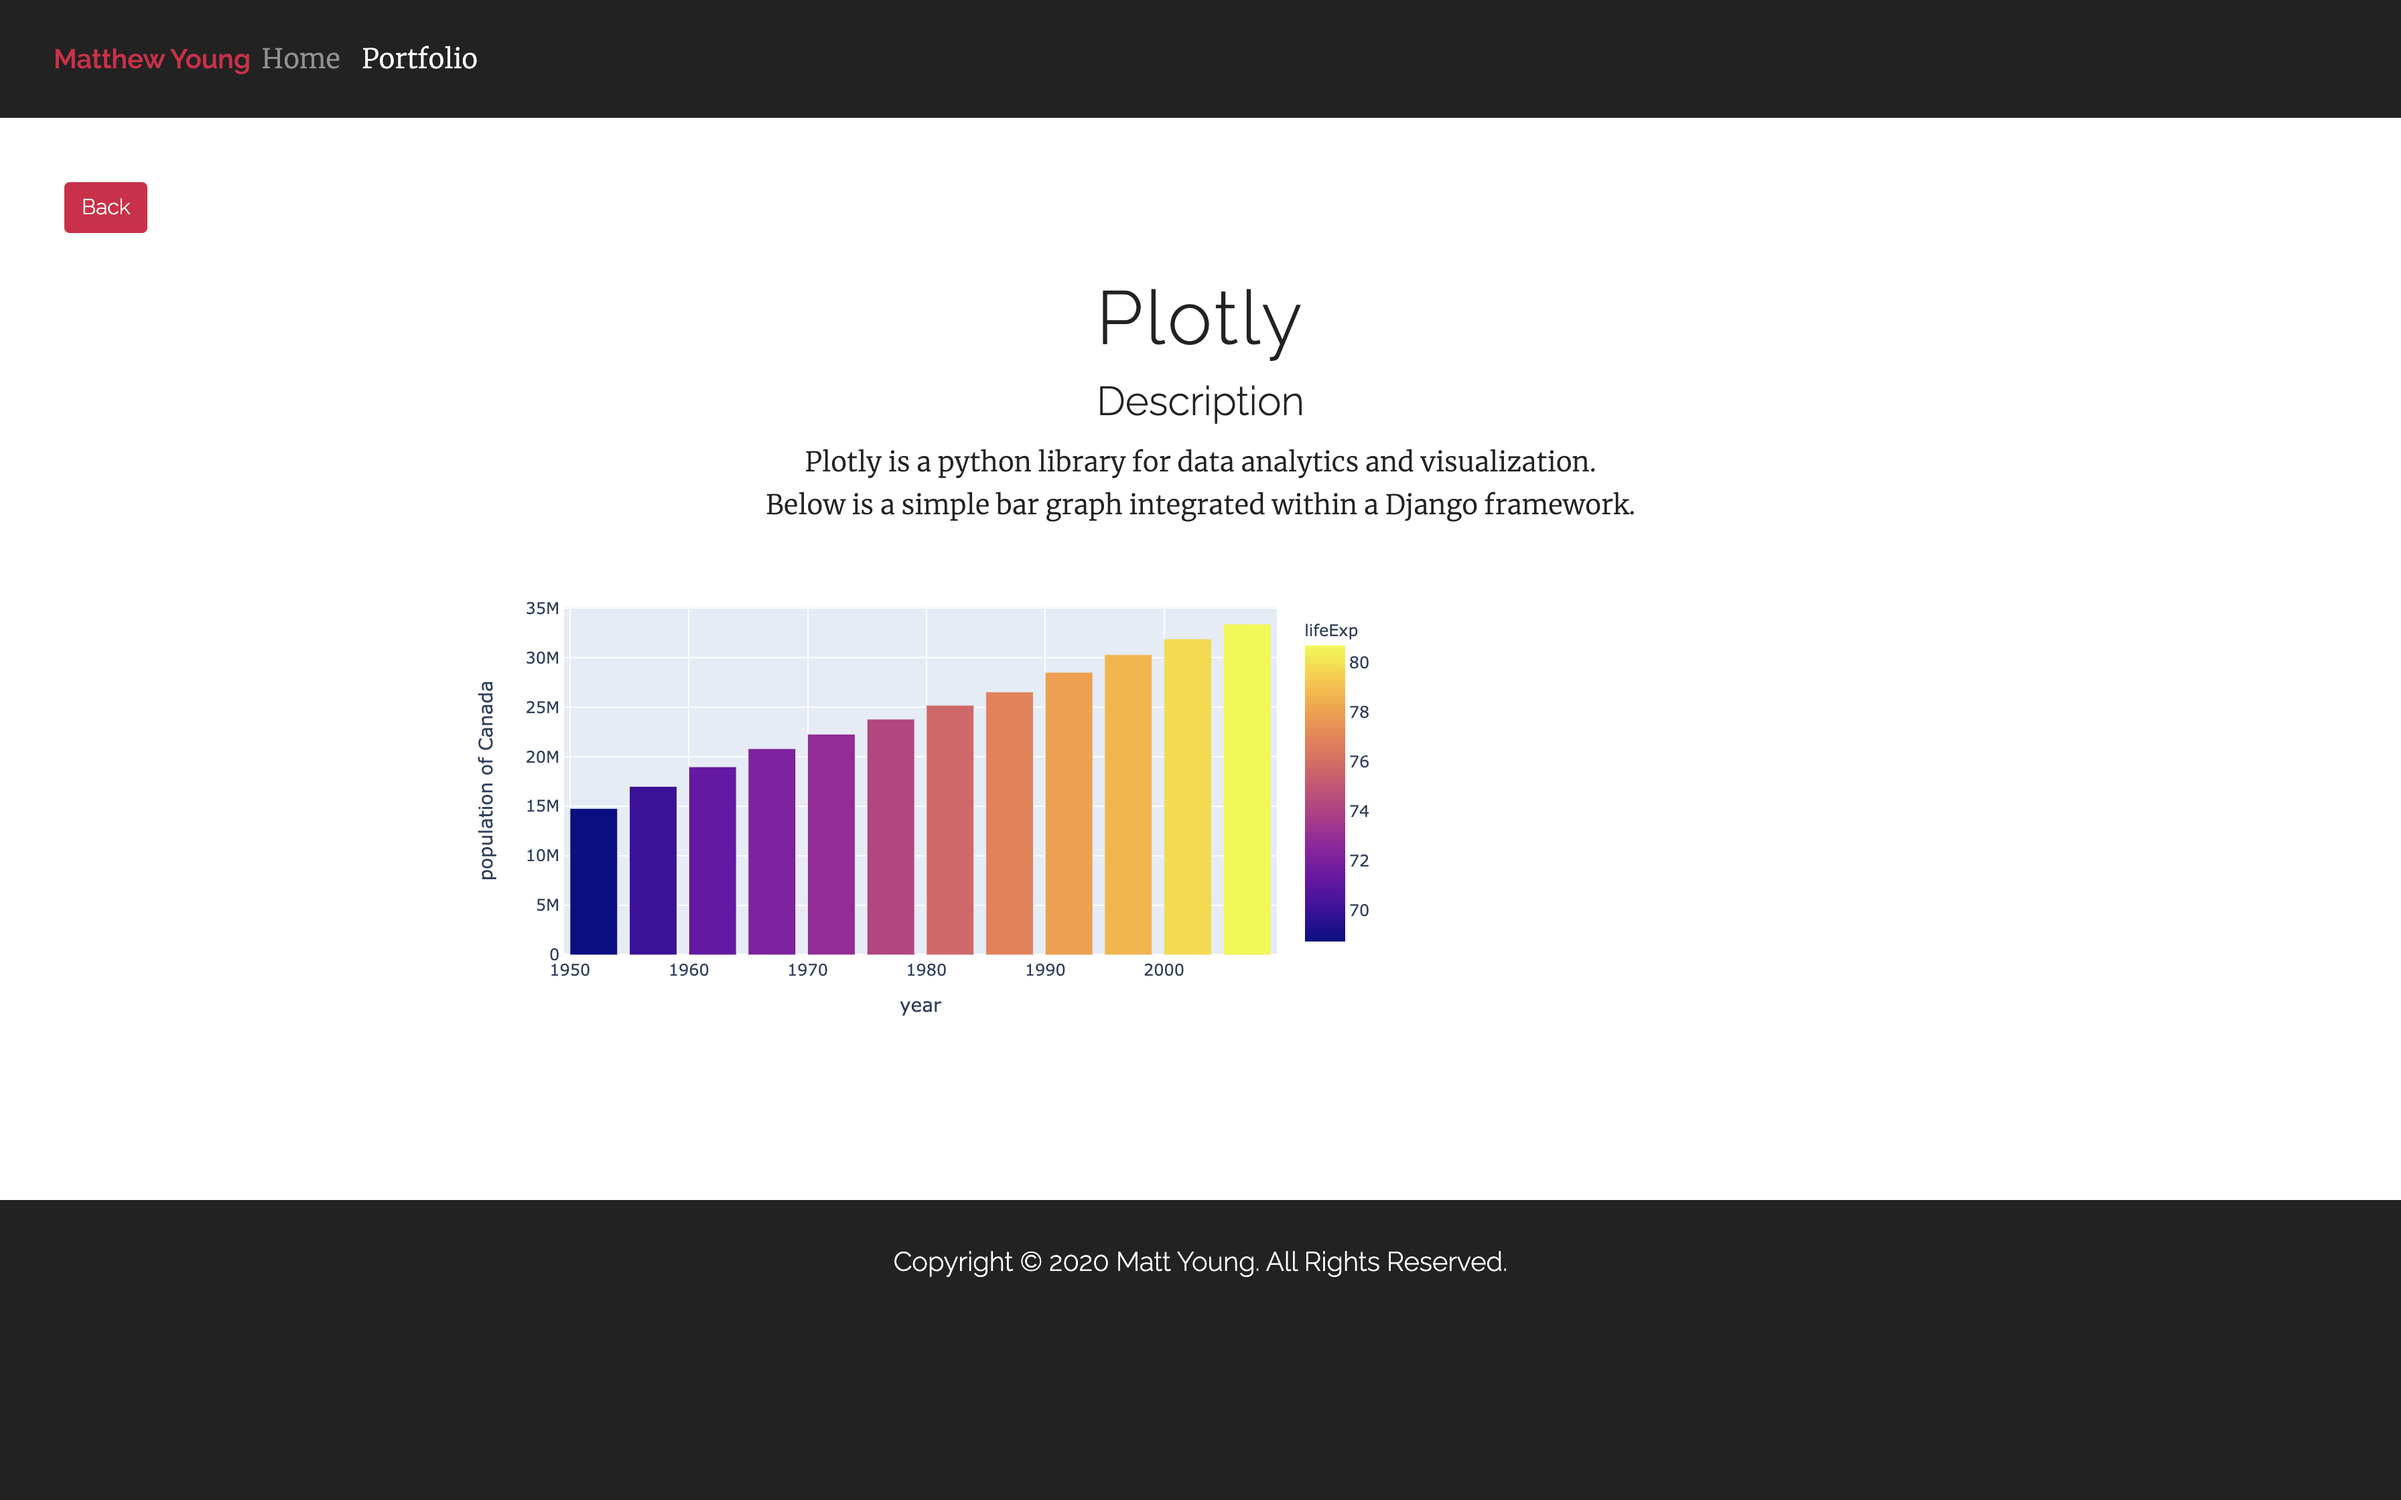
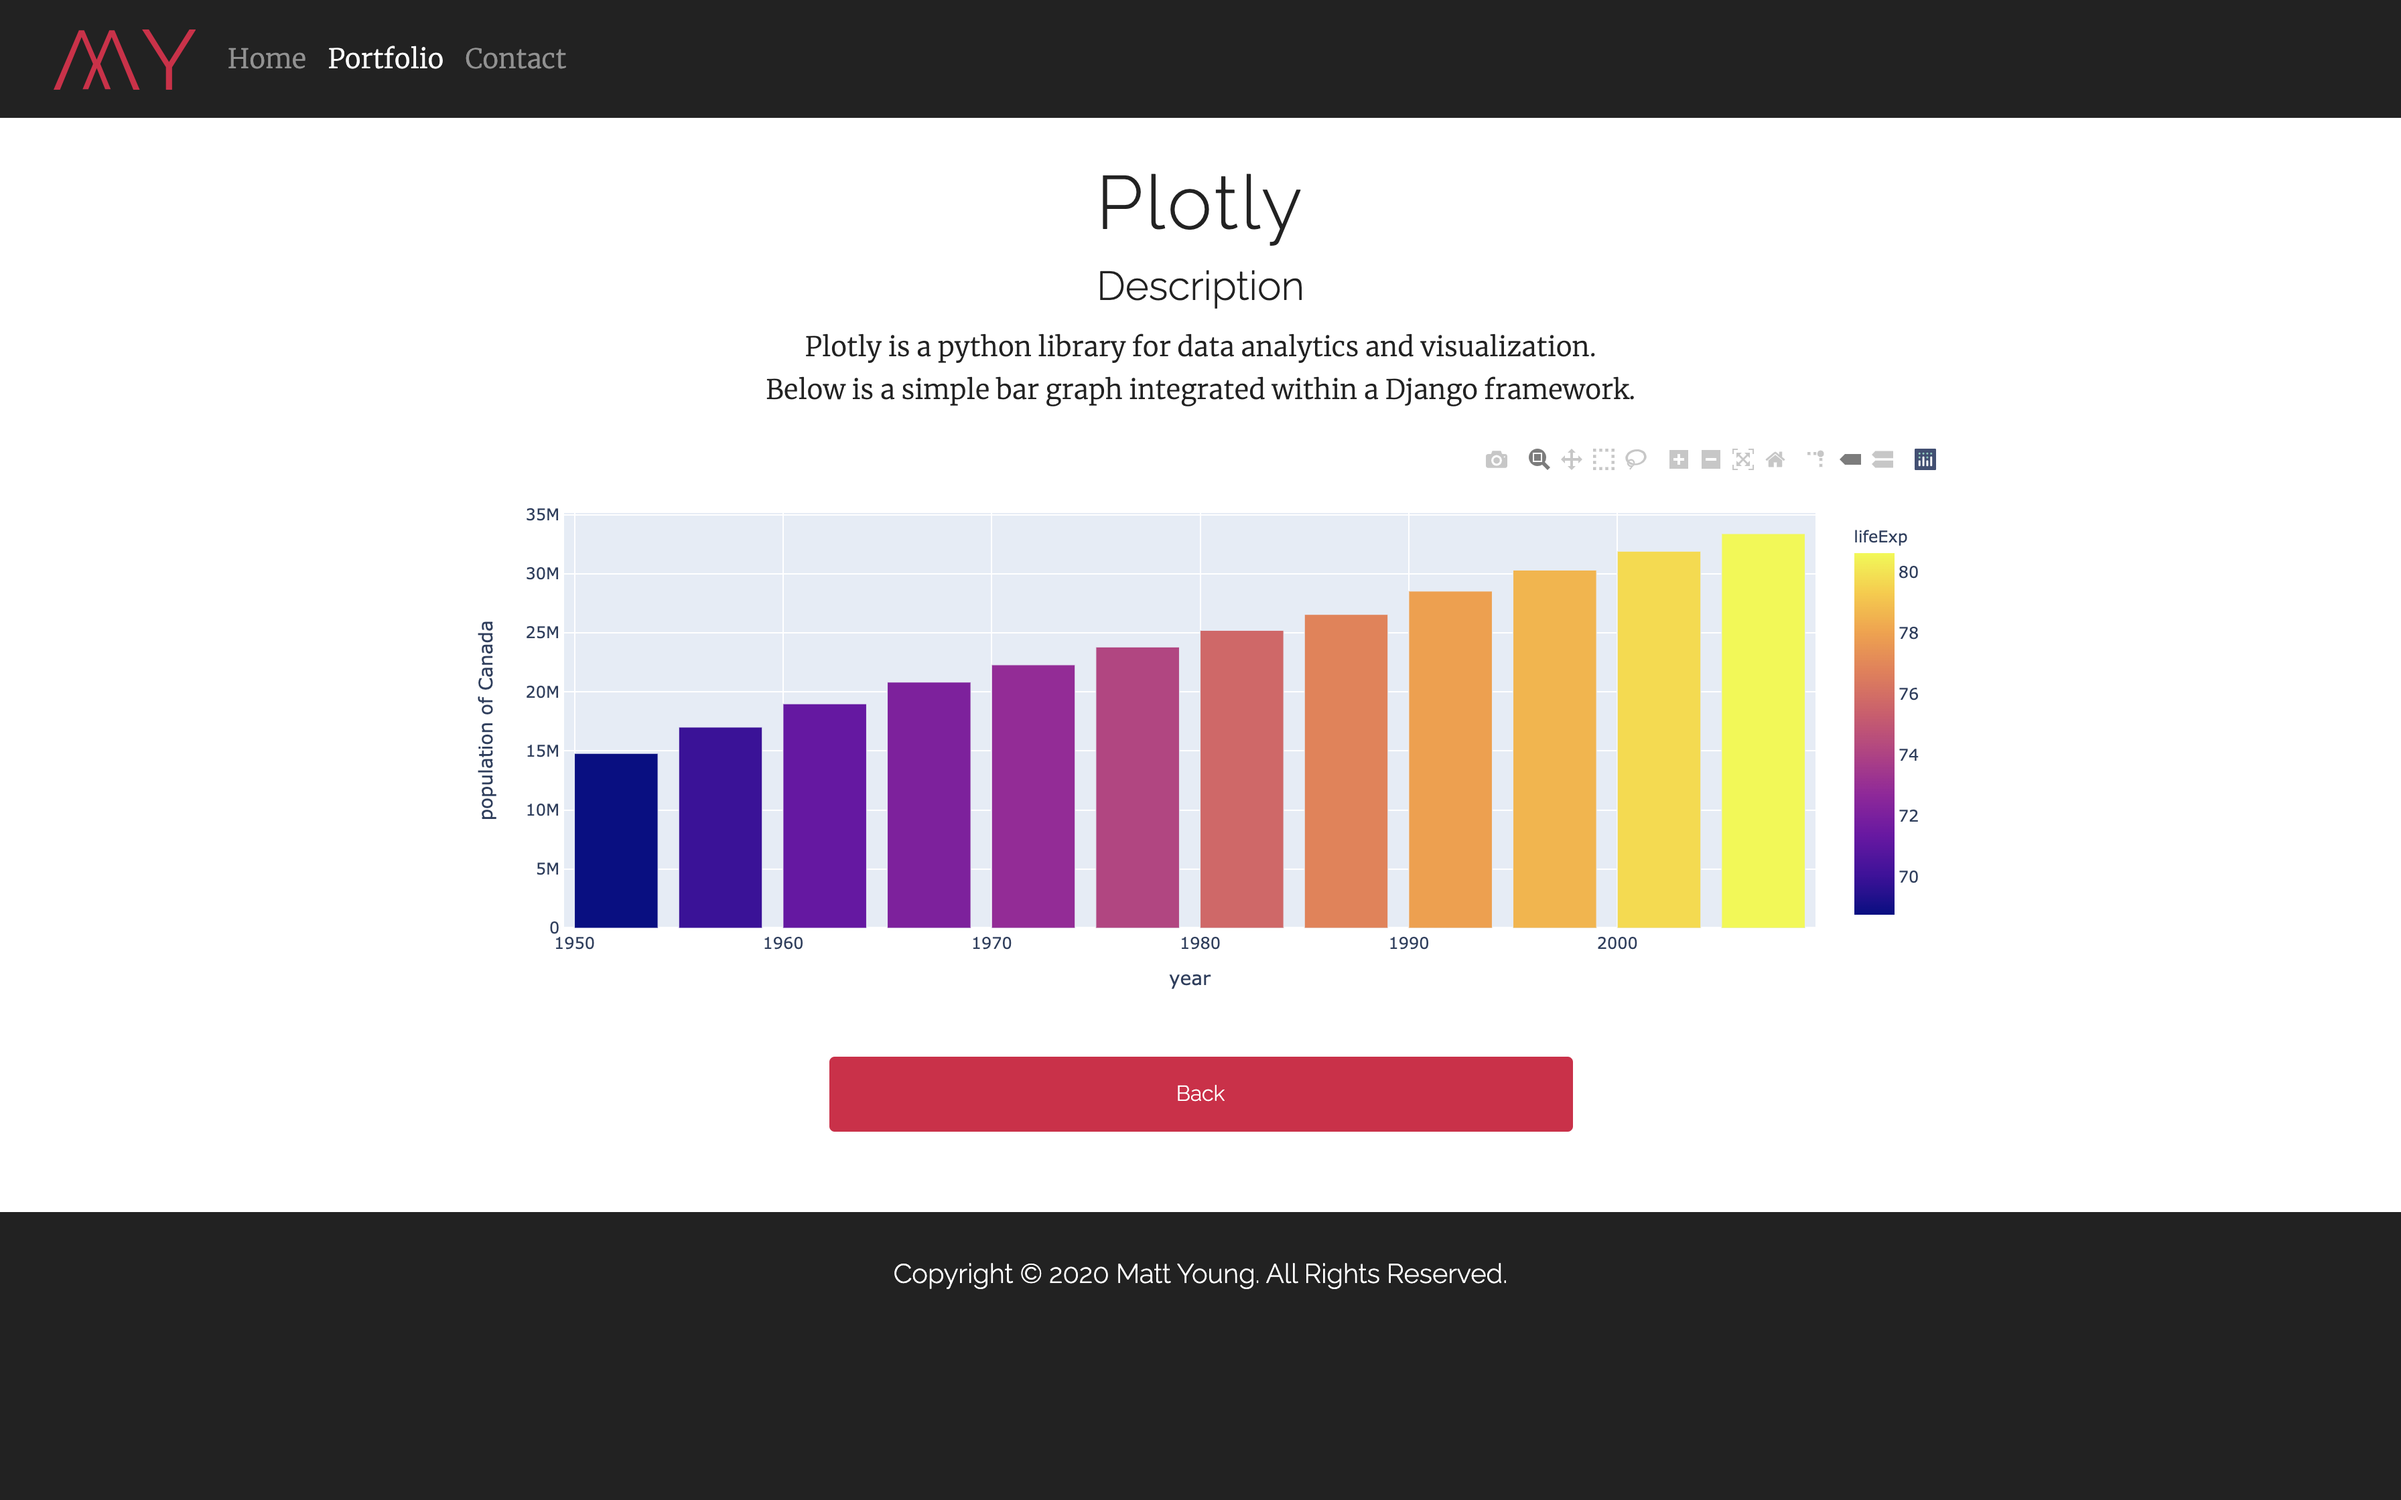
Style updates

diff --git a/mattmyoung/templates/portfolio/portfolio.html b/mattmyoung/templates/portfolio/portfolio.html
@@ -7,7 +7,7 @@
         <div class="row text-center">
             <div class="col-lg-4 col-sm-1 mb-3">
               <div class="card" style="width: 18rem;">
-                <img class="card-img-top" src="{% static 'img/yttags.png' %}" alt="Card image cap">
+                <a href="https://yttags.com/" target="_blank"><img class="card-img-top" src="{% static 'img/yttags.png' %}" alt="Card image cap"></a>
                 <div class="card-body">
                   <h2>YT Tags</h2>
                   <p class="card-text">Data analytics using YouTube's API</p>
@@ -17,7 +17,7 @@
             </div>
             <div class="col-lg-4 col-sm-1 mb-3">
               <div class="card" style="width: 18rem;">
-                <img class="card-img-top" src="{% static 'img/pts.png' %}" alt="Card image cap">
+                <a href="{% url 'pts' %}"><img class="card-img-top" src="{% static 'img/pts.png' %}" alt="Card image cap"></a>
                 <div class="card-body">
                   <h2>Pts</h2>
                   <p class="card-text">JavaScript library for visualization</p>
@@ -27,7 +27,7 @@
             </div>
             <div class="col-lg-4 col-sm-1 mb-3">
               <div class="card" style="width: 18rem;">
-                <img class="card-img-top" src="{% static 'img/plotly.png' %}" alt="Card image cap">
+                <a href="{% url 'plotly' %}"><img class="card-img-top" src="{% static 'img/plotly.png' %}" alt="Card image cap"></a>
                 <div class="card-body">
                   <h2>Plotly</h2>
                   <p class="card-text">Python library for data analytics</p>

diff --git a/mattmyoung/templates/portfolio/plotly.html b/mattmyoung/templates/portfolio/plotly.html
@@ -3,18 +3,25 @@
 {% block content %}
   <div class="container">
     <div class="row">
-      <div class="col">
-        <a class="btn btn-primary mt-5 ml-5" href="../">Back</a>
+      <div class="col text-center">
         <h1 class="display-4">Plotly</h1>
-        <h2 class="display-6 text-center">Description</h2>
-        <p class="text-center">Plotly is a python library for data analytics and visualization.</p>
-        <p class="text-center">Below is a simple bar graph integrated within a Django framework.</p>
-        {% if graph %}
+        <h2 class="display-6">Description</h2>
+        <p>Plotly is a python library for data analytics and visualization.</p>
+        <p>Below is a simple bar graph integrated within a Django framework.</p>
+        <div id="plotly" class="mt-3">
+          {% if graph %}
             {{ graph|safe }}
-        {% else %}
+          {% else %}
             <p>No graph was provided.</p>
-        {% endif %}
+          {% endif %}
+        </div>
+        <a class="btn btn-primary mt-3 w-50" href="../">Back</a>
+        <div class="space-60"></div>
       </div>
     </div>
   </div>
+{% endblock %}
+
+{% block footer_js %}
+  <script type="text/javascript">$(".plotly-graph-div")[0].classList.add("mx-auto")</script>
 {% endblock %}

diff --git a/mattmyoung/templates/portfolio/pts.html b/mattmyoung/templates/portfolio/pts.html
@@ -4,14 +4,14 @@
 {% block content %}
   <div class="container">
     <div class="row">
-      <div class="col">
-        <a class="btn btn-primary mt-5 ml-5" href="../">Back</a>
-        <h1 class="display-4">pts</h1>
-        <h2 class="display-6 text-center">Description</h2>
-        <p class="text-center">Pts is a javascript library for visualization and creative-coding.</p>
-        <p class="text-center">If you hover your mouse over the lines below, you will see them light up.</p>
+      <div class="col text-center">
+        <h1 class="display-4">Pts</h1>
+        <h2 class="display-6">Description</h2>
+        <p>Pts is a javascript library for visualization and creative-coding.</p>
+        <p>If you hover your mouse over the lines below, you will see them light up.</p>
         <div class="space-30"></div>
         <div id="pt"></div>
+        <a class="btn btn-primary mt-5 w-50" href="../">Back</a>
         <div class="space-60"></div>
       </div>
     </div>

diff --git a/mattmyoung/templates/frontend/contact.html b/mattmyoung/templates/frontend/contact.html
@@ -8,7 +8,7 @@
     </div>
   </div>
   <div class="row">
-    <div class="col-lg-6 col-sm-2 mx-auto">
+    <div class="col-lg-6 col-md-6 col-sm-12 mx-auto">
       <form id="contact_form" class="mx-auto" action="{% url 'contact' %}" method="POST">
         {% csrf_token %}
         <div class="form-group">
@@ -23,7 +23,7 @@
           <label for="message">Message</label>
           {{ form.message }}
         </div>
-        <button class="btn btn-primary w-100 py-2 mt-2 g-recaptcha" type="submit" value="Send">Send</button>
+        <button class="btn btn-primary w-100 py-3 mt-2 g-recaptcha" type="submit" value="Send">Send</button>
         {% if form.email.errors %}
           <p class="alert alert-danger mt-3">{{ form.email.errors.as_text }}</p>
         {% endif %}

diff --git a/mattmyoung/static/css/global.css b/mattmyoung/static/css/global.css
@@ -96,9 +96,9 @@ input[type=text]:focus, textarea:focus {color: #ad1136 !important;}
   border-color: #db1645;
   padding: 15px;
 }
-.btn-primary:hover {
-  background-color: #ad1136;
-  border-color: #ad1136;
+.btn-primary:hover, btn-primary:active {
+  background-color: #ad1136 !important;
+  border-color: #ad1136 !important;
 }
 .card {margin: 15px auto;}
 .space-30 {height: 30px;}

diff --git a/mattmyoung/portfolio/views.py b/mattmyoung/portfolio/views.py
@@ -15,9 +15,12 @@ def pts(request):
 def plotly(request):
     data = px.data.gapminder()
     data_canada = data[data.country == 'Canada']
-    fig = px.bar(data_canada, x='year', y='pop',
-             hover_data=['lifeExp', 'gdpPercap'], color='lifeExp',
-             labels={'pop':'population of Canada'}, height=400)
-    graph = fig.to_html(full_html=False, default_height=500, default_width=700)
+    fig = px.bar(data_canada,
+                 x='year',
+                 y='pop',
+                 hover_data=['lifeExp', 'gdpPercap'],
+                 color='lifeExp',
+                 labels={'pop':'population of Canada'})
+    graph = fig.to_html(full_html=False)
     context = {'graph': graph}
     return render(request, 'portfolio/plotly.html', context)
